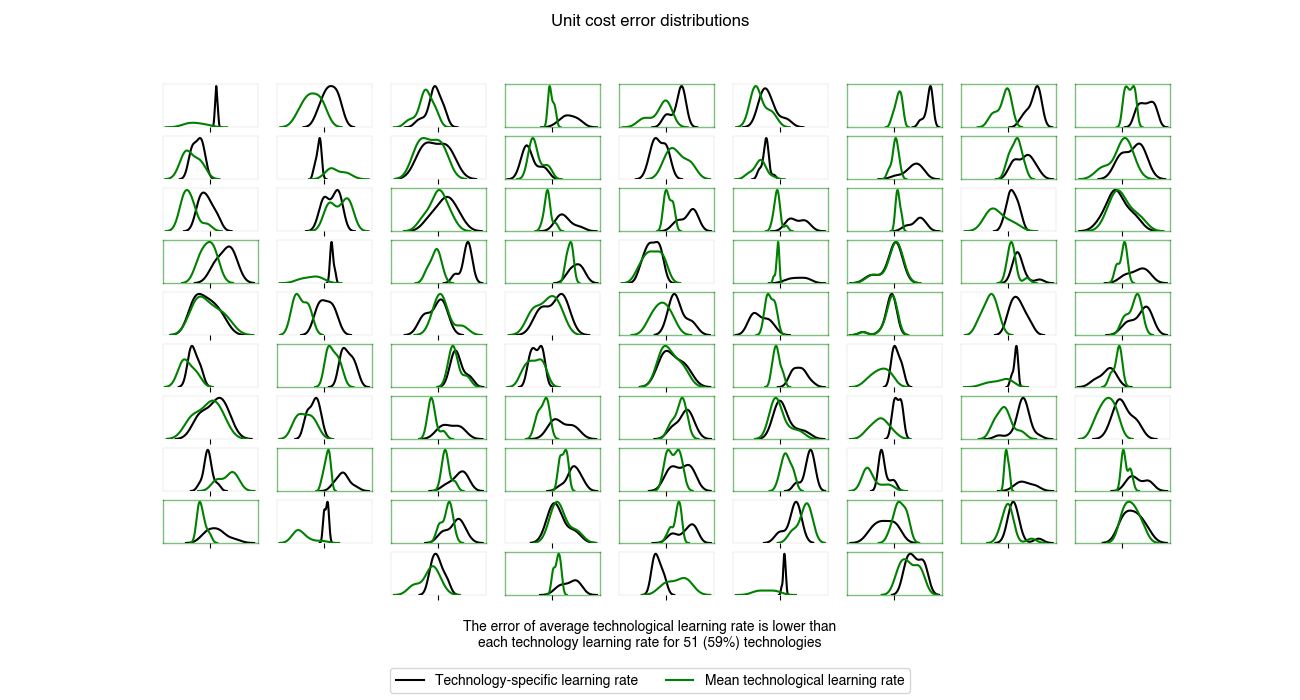
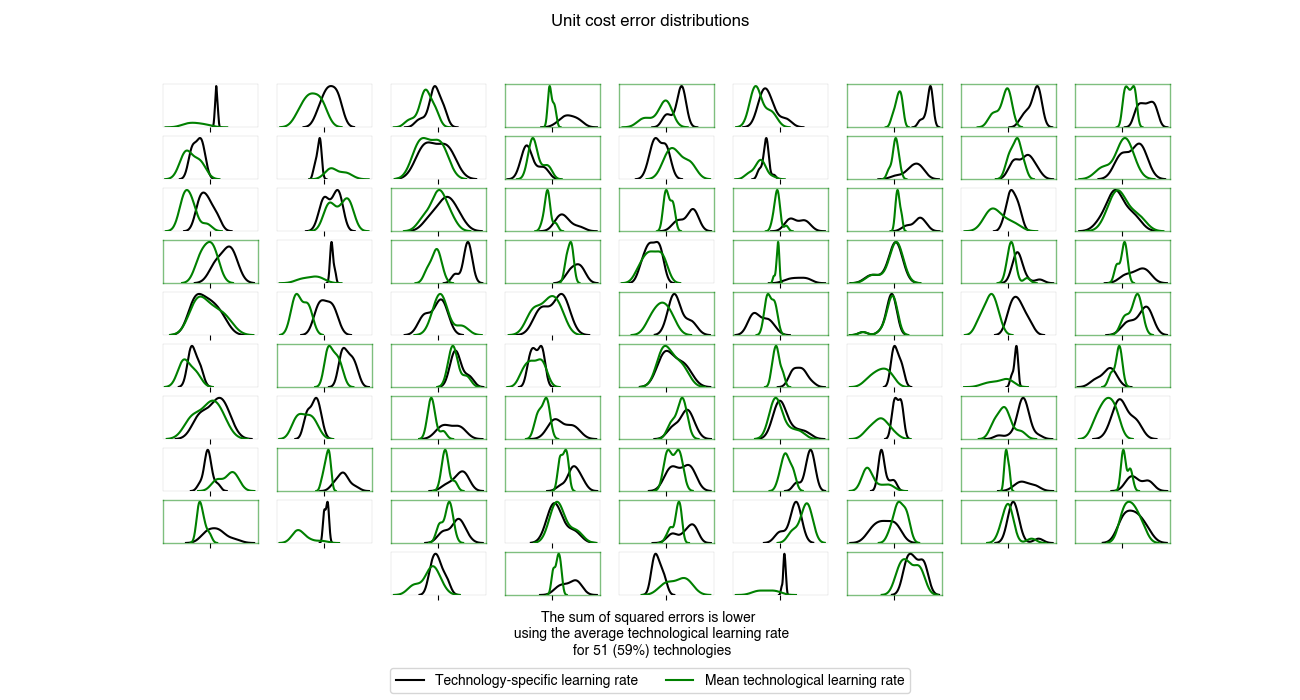
print f_pvalues statistics in createDataset.py

Changed region(s): [[0.3692, 0.87, 0.6462, 0.96]]

diff --git a/Method2.py b/Method2.py
@@ -8,7 +8,7 @@ from mpl_toolkits.mplot3d import axes3d
 import cmcrameri as cm
 rc('font',**{'family':'sans-serif','sans-serif':['Helvetica']})
 matplotlib.rcParams['pdf.fonttype'] = 42
-matplotlib.style.use('ggplot')
+# matplotlib.style.use('ggplot')
 df = pd.read_csv('ExpCurves.csv')
 # df = pd.read_csv('NormalizedExpCurves.csv')
 # df['Cumulative production'] = df['Normalized cumulative production']
@@ -111,8 +111,8 @@ dferr2 = pd.DataFrame(dferr2,
 # # plt.show()
 
 ndx = 100
-ptiles_or, ptiles2_or, count_or = [], [], []
-ptiles_on, ptiles2_on, count_on = [], [], []
+ptiles_or, ptiles2_or, count_or, counttech_or = [], [], [], []
+ptiles_on, ptiles2_on, count_on, counttech_on = [], [], [], []
 dxs = np.linspace(0,dferr['Log of ratios for predictor'].max(),ndx)
 dxsor_plot, dxson_plot = [], []
 for idx in range(ndx-1):
@@ -126,6 +126,8 @@ for idx in range(ndx-1):
 							.quantile([0.1,0.2,0.3,0.4,0.5,0.6,0.7,0.8,0.9]).values
 		count_or.append(dferr2.loc[(dferr2['Log of ratios for predictor']>=dxs[idx]) &\
 							(dferr2['Log of ratios for predictor']<dxs[idx+1])].count()[0])
+		counttech_or.append(dferr2.loc[(dferr2['Log of ratios for predictor']>=dxs[idx]) &\
+							(dferr2['Log of ratios for predictor']<dxs[idx+1]),'Tech'].nunique())
 		ptiles_or.append(pt)
 		ptiles2_or.append(pt2)
 		dxsor_plot.append(dxs[idx])
@@ -139,6 +141,8 @@ for idx in range(ndx-1):
 							.quantile([0.1,0.2,0.3,0.4,0.5,0.6,0.7,0.8,0.9]).values
 		count_on.append(dferr2.loc[(dferr2['Log of ratios for prediction']>=dxs[idx]) &\
 							(dferr2['Log of ratios for prediction']<dxs[idx+1])].count()[0])
+		counttech_on.append(dferr2.loc[(dferr2['Log of ratios for prediction']>=dxs[idx]) &\
+							(dferr2['Log of ratios for prediction']<dxs[idx+1]),'Tech'].nunique())
 		ptiles_on.append(pt)
 		ptiles2_on.append(pt2)
 		dxson_plot.append(dxs[idx])
@@ -166,10 +170,17 @@ for idx in range(3,-1,-1):
 		    ptiles2_or[:,-(idx+1)-1], alpha=0.05+idx*0.2,
 			  color='forestgreen', lw=0)
 ax[1][0].plot(dxsor_plot, count_or, color='k', zorder=-1)
+ax102 = ax[1][0].twinx()
+ax102.plot(dxsor_plot, counttech_or, color='r', zorder=-1)
+ax102.set_yscale('log', base=10)
+ax102.spines['right'].set_color('red')
+ax102.tick_params(axis='y', colors='red')
+# ax102.set_ylabel('Number of technologies', color='red')
+ax102.minorticks_off()
 ax[1][0].set_yscale('log', base=10)
 ax[1][0].set_ylabel('Number of data points')
 ax[1][0].set_xlabel('Orders of magnitude used for predictor')
-ax[0][0].set_ylabel('Error')
+ax[0][0].set_ylabel('Error in log10 space')
 
 ax[0][1].plot(dxson_plot, ptiles_on[:,4], color='darkmagenta')
 ax[0][1].plot(dxson_plot, ptiles2_on[:,4], color='forestgreen')
@@ -187,6 +198,13 @@ for idx in range(3,-1,-1):
 		    ptiles2_on[:,-(idx+1)-1], alpha=0.05+idx*0.2,
 			  color='forestgreen', lw=0)
 ax[1][1].plot(dxson_plot, count_on, color='k')
+ax112 = ax[1][1].twinx()
+ax112.plot(dxson_plot, counttech_on, color='r')
+ax112.set_yscale('log', base=10)
+ax112.spines['right'].set_color('red')
+ax112.tick_params(axis='y', colors='red')
+ax112.set_ylabel('Number of technologies', color='red')
+ax112.minorticks_off()
 ax[1][1].set_yscale('log', base=10)
 # ax[1][1].set_ylabel('Number of data points')
 ax[1][1].set_xlabel('Orders of magnitude used in prediction')
@@ -207,8 +225,8 @@ order = [0,2,4,6,8,10,1,3,5,7,9]
 legend_elements = [legend_elements[x] for x in order]
 fig.legend(handles=legend_elements, ncol=2, loc='lower center')
 fig.subplots_adjust(bottom=0.325, right=0.95, left=0.1, top=0.9)
-ax[0][0].set_title('Predictor')
-ax[0][1].set_title('Prediction')
+ax[0][0].set_title('Increasing predictor calibration interval')
+ax[0][1].set_title('Increasing prediction interval')
 # plt.show()
 
 # plt.show()
@@ -217,8 +235,8 @@ ax[0][1].set_title('Prediction')
 
 npoints = 1000
 hnpoints = int(npoints/2)
-ptiles_or, ptiles2_or = [], []
-ptiles_on, ptiles2_on = [], []
+ptiles_or, ptiles2_or, counttech_or = [], [], []
+ptiles_on, ptiles2_on, counttech_on = [], [], []
 dferr_or = dferr.sort_values(by='Log of ratios for predictor')
 dferr2_or = dferr2.sort_values(by='Log of ratios for predictor')
 dferr_on = dferr.sort_values(by='Log of ratios for prediction')
@@ -299,14 +317,12 @@ order = [0,2,4,6,8,10,1,3,5,7,9]
 legend_elements = [legend_elements[x] for x in order]
 fig.legend(handles=legend_elements, ncol=2, loc='lower center')
 fig.subplots_adjust(bottom=0.325, right=0.95, left=0.1, top=0.9)
-ax[0][0].set_title('Predictor')
-ax[0][1].set_title('Prediction')
+ax[0][0].set_title('Increasing predictor calibration interval')
+ax[0][1].set_title('Increasing prediction interval')
 ax[1][0].set_yticks([])
 ax[1][0].yaxis.grid(False)
 ax[1][1].set_yticks([])
 ax[1][1].yaxis.grid(False)
-plt.show()
-
 
 # select ratios to be plotted
 frac = []

diff --git a/createDataset.py b/createDataset.py
@@ -157,6 +157,7 @@ for tech in df['Tech'].unique():
 	model = sm.OLS(endog=y, exog=x)
 	res = model.fit()
 	slopes.append(res.params[1])
+	f_values.append(res.f_pvalue)
 	# for npoints in range(2,len(select['Unit cost'].values)):
 	# 	# estimate experience curve using simple linear regression
 	# 	x = np.log10(select['Cumulative production'].values[:npoints])
@@ -204,7 +205,7 @@ for tech in df['Tech'].unique():
 	# plt.show()
 print(np.mean(slopes))
 print(1 - 2**np.mean(slopes))
-
+print(sum(np.asarray(f_values)<0.05)/len(f_values))
 x = np.log10(df['Cumulative production'].values)
 y = np.log10(df['Unit cost'].values)
 x = sm.add_constant(x)

diff --git a/Method1.py b/Method1.py
@@ -144,10 +144,10 @@ for tech in df['Tech'].unique():
     count += 1
 
 ax3[int(count/9)][count%9].annotate(
-    'The error of average technological learning rate is lower than'+\
-    '\n'+'each technology learning rate for '+\
+    'The sum of squared errors is lower \n using the average technological learning rate'+\
+    '\n'+' for '+\
     str(better)+ ' ('+str(round(100*better/86))+'%) technologies', 
-    (0.5,0.075), ha='center',
+    (0.5,0.065), ha='center', fontsize=10,
     xycoords='figure fraction')
 
 ax2[-1][-2].axis('off')
